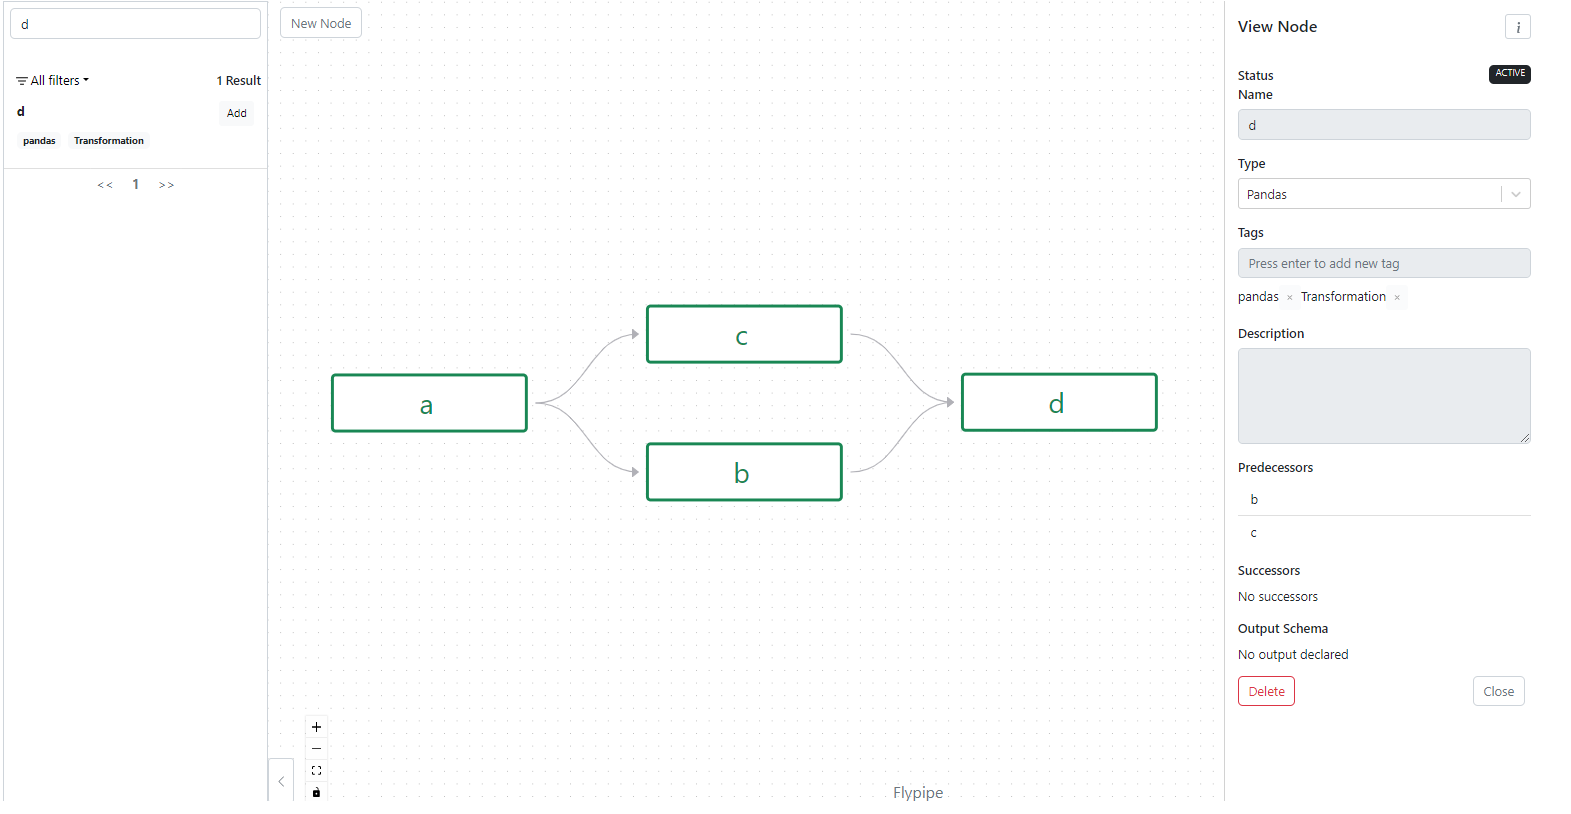
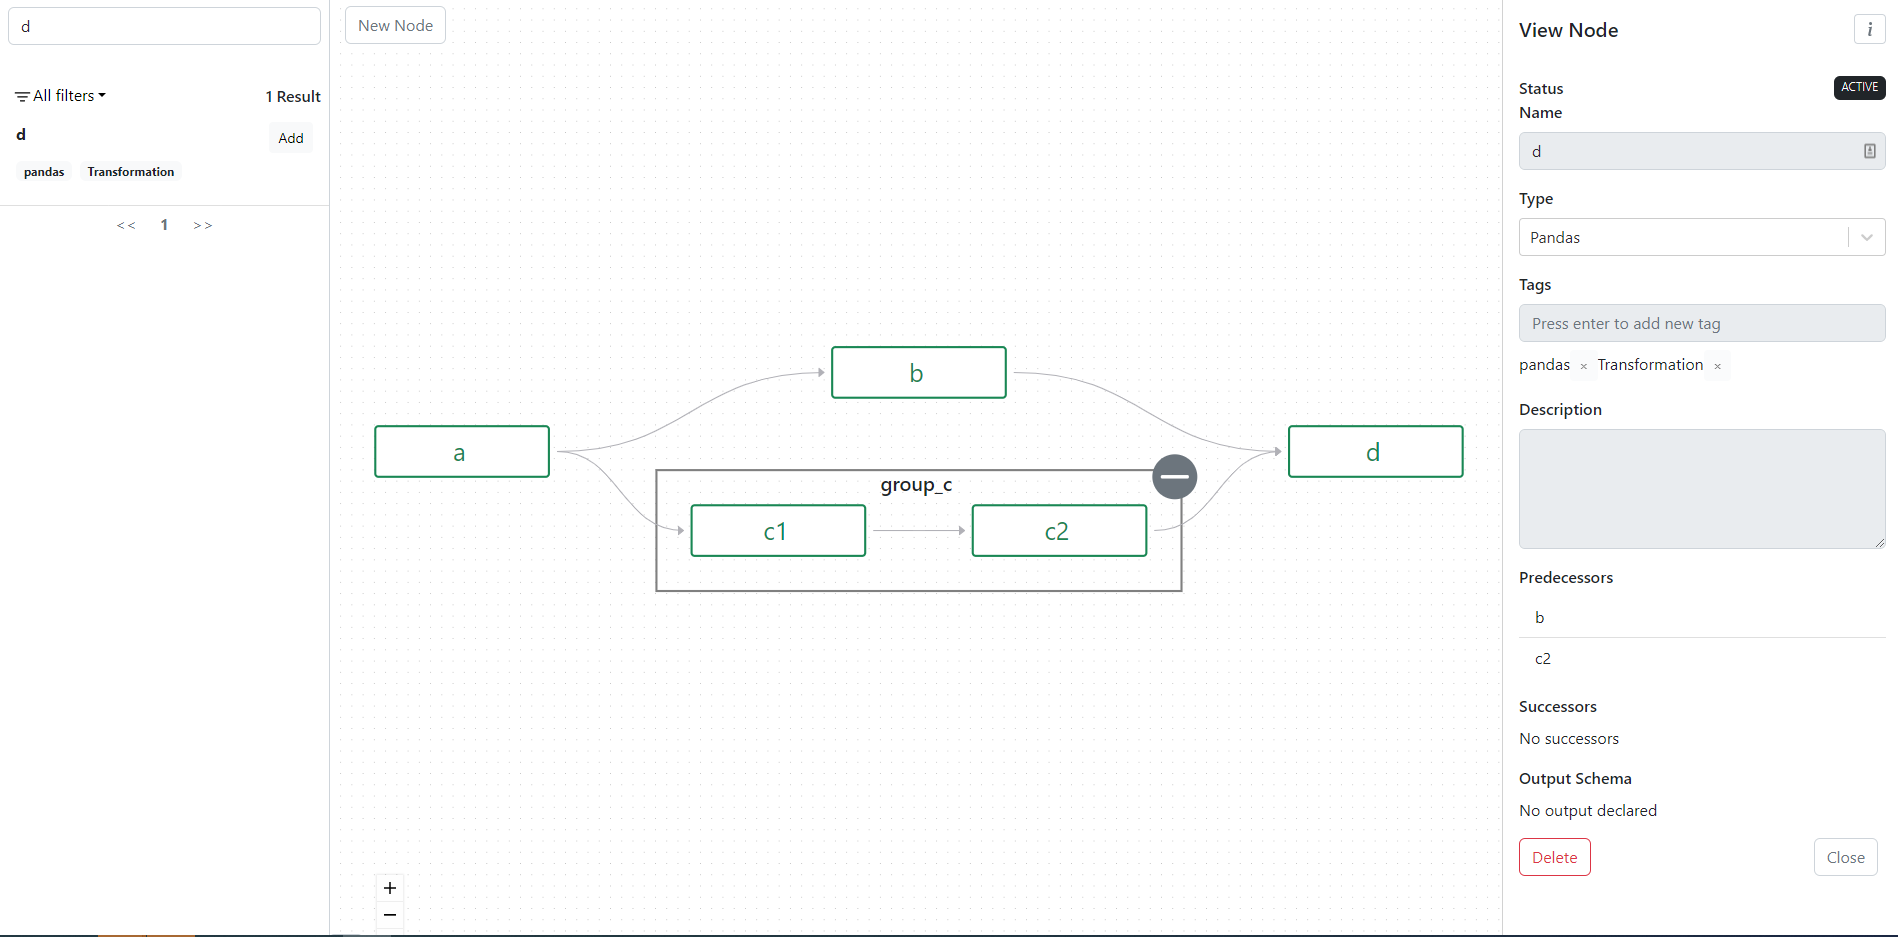
chore: update docos

diff --git a/docs/source/tutorials/catalog.md b/docs/source/tutorials/catalog.md
@@ -36,22 +36,36 @@ def b(a):
 
 @node(
     type='pandas',
-    dependencies=[a]
+    dependencies=[a],
+    group="group_c"
 )
-def c(a):
+def c1(a):
     return a
 
 @node(
     type='pandas',
-    dependencies=[b, c]
+    dependencies=[c1],
+    group="group_c"
 )
-def d(b, c):
-    return pd.concat([b, c], axis=1)
+def c2(c1):
+    return c1
+
+@node(
+    type='pandas',
+    dependencies=[b, c2]
+)
+def d(b, c2):
+    return pd.concat([b, c2], axis=1)
 ```
 
 ```
 # Visualise the pipeline by invoking the html method
+# Note- in Databricks there's a displayHTML that allows for direct rendering of html:
 displayHTML(d.html(height=850))
+# Outside of Databricks, we'll need to put the output into a html file and load it in a browser: 
+with open('test.html', 'w', encoding='utf-8') as f:
+    f.write(d.html(height=850))
+# <open test.html in browser after running this>
 ```
 
 ![Catalog Graph](../_static/images/catalog1.png)
